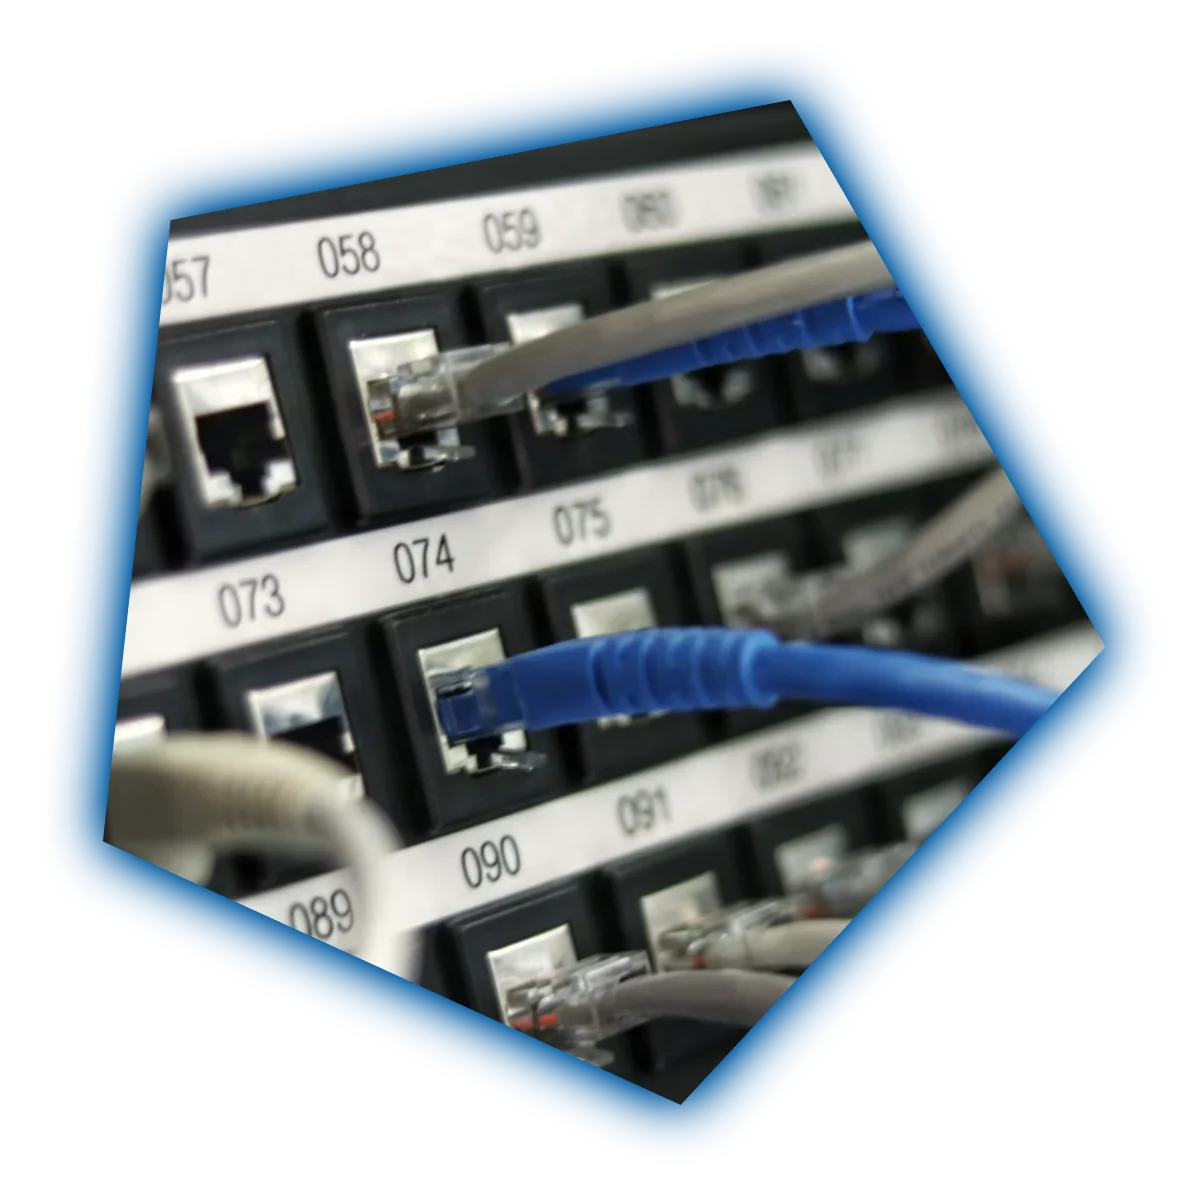
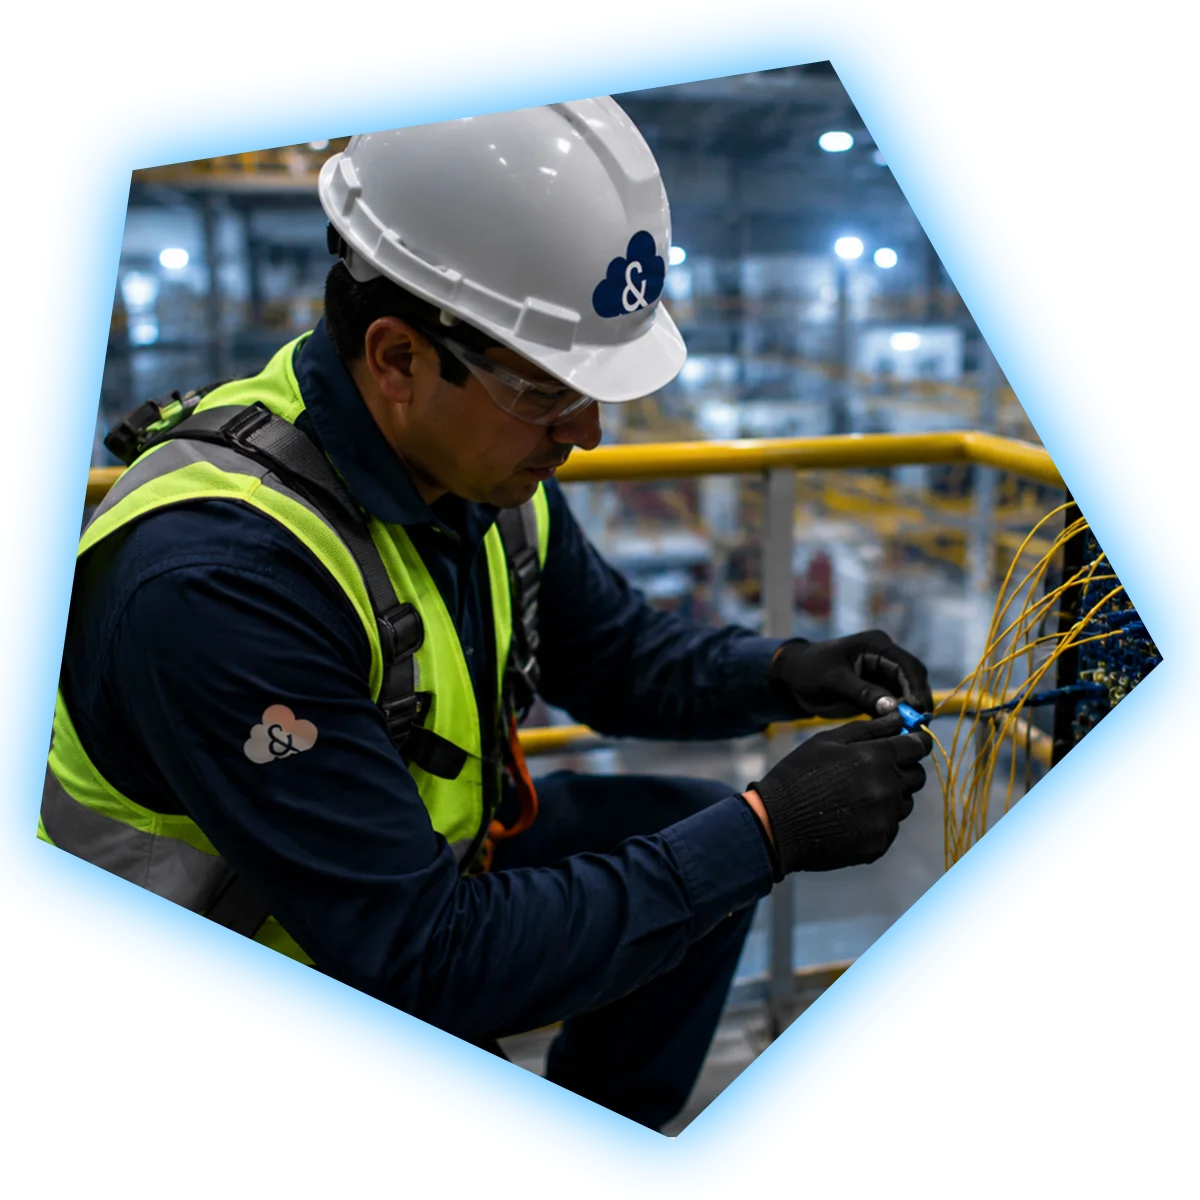
V.3.0.0 - 22.09.26

diff --git a/index.html b/index.html
@@ -377,6 +377,11 @@
                             <img src="assets/img/clientes/orbis.webp" alt="" />
                         </div>
                         <div class="logo-placeholder">
+                            <img
+                                src="assets/img/clientes/poder_judicial.webp"
+                                alt="" />
+                        </div>
+                        <div class="logo-placeholder">
                             <img src="assets/img/clientes/psw.webp" alt="" />
                         </div>
                         <div class="logo-placeholder">
@@ -402,22 +407,22 @@
                     <div
                         class="row align-items-center justify-content-center gap-lg">
                         <div class="col-12 col-lg-3 logo-placeholder">
-                            Certificación 01
+                            <img src="assets/img/respaldos/duns.webp" alt="" />
                         </div>
                         <div class="col-12 col-lg-3 logo-placeholder">
-                            Certificación 02
+                            <img
+                                src="assets/img/respaldos/marca_gto.webp"
+                                alt="" />
                         </div>
                         <div class="col-12 col-lg-3 logo-placeholder">
-                            Certificación 03
+                            C<img
+                                src="assets/img/respaldos/repse.webp"
+                                alt="" />
                         </div>
                         <div class="col-12 col-lg-3 logo-placeholder">
-                            Certificación 03
-                        </div>
-                        <div class="col-12 col-lg-3 logo-placeholder">
-                            Certificación 03
-                        </div>
-                        <div class="col-12 col-lg-3 logo-placeholder">
-                            Certificación 03
+                            <img
+                                src="assets/img/respaldos/secretaria_trabajo.webp"
+                                alt="" />
                         </div>
                     </div>
                 </div>

diff --git a/css/style.css b/css/style.css
@@ -268,12 +268,12 @@ li {
 /************************/
 /* SERVICIOS */
 /************************/
-#servicios {
+/* #servicios {
     background-image: url("../assets/img/background_1.webp");
     background-position: center;
     background-size: cover;
     background-repeat: no-repeat;
-}
+} */
 
 /* From Uiverse.io by iconicchandu */
 .card {
@@ -585,8 +585,24 @@ button {
 } */
 
 /* Clientes */
-#clientes {
+/* #clientes {
     background-image: url("../assets/img/background_2.webp");
+    background-position: center;
+    background-size: cover;
+    background-repeat: no-repeat;
+} */
+
+/* Ventajas */
+#ventajas {
+    background-image: url("../assets/img/background_3.webp");
+    background-position: center;
+    background-size: cover;
+    background-repeat: no-repeat;
+}
+
+/* Certificaciones */
+#certificaciones {
+    background-image: url("../assets/img/background_4.webp");
     background-position: center;
     background-size: cover;
     background-repeat: no-repeat;

diff --git a/js/gsap.js b/js/gsap.js
@@ -13,6 +13,7 @@ gsap.from(".logo", {
 gsap.from(".btn2", {
     y: -200,
     ease: "power2.inOut",
+    opacity: 0,
     duration: 0.8,
     stagger: 0.02,
 });
